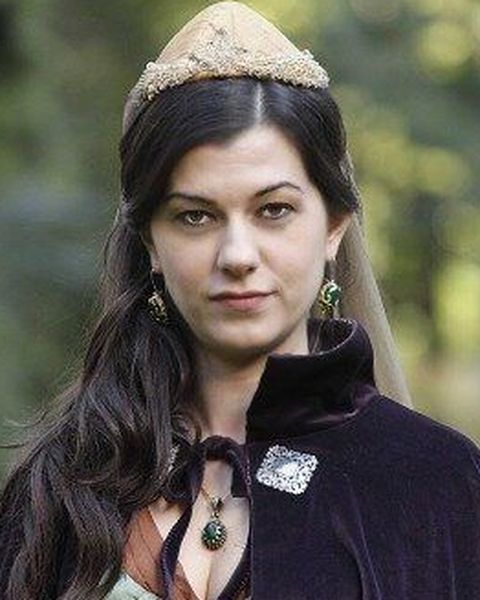
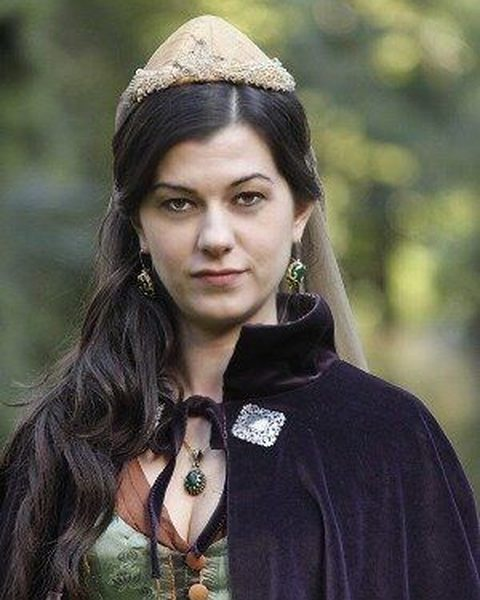
feat(art): widen six Kul card crops

diff --git a/art/directions/notes.md b/art/directions/notes.md
@@ -20,6 +20,12 @@ Four reworked Entrika cards have new stills, taken from the official channel's 1
 
 Under 150 px the art window is a portrait slice (88.8 × 128.8 cqw) that shows less than half the width of a 3:2 still, so `pos` x is set for that slice: Kefalet 30% keeps both figures, Casus 35% keeps Hürrem's face, Çeşnigir 65% keeps the taster. `index.html` here still links the old `card.divan-sirasi`, `card.gozde` and `card.saray-dedikodusu` copies in `img/`, and the UI proposal (`ui/index.html`) reads their `-1` copies from `graded/`, so those copies stay until both pages are rebuilt; the originals and the unlinked copies are gone. The comparison page's Saray Tabibi slot now shows the Çeşnigir stills. Concerns: Kefalet's two figures are full-length in a wide room, so they are small on the card; Casus is a dark frame; the Casus and Çeşnigir clips are compilations that don't name their episodes.
 
+## Round 16: wider Kul crops
+
+The roster standard (face box 36 % of the 4:5 crop, eye line at 49 % of the card window) makes Kul faces about 36 cqw tall on the card; Character faces are about 29 cqw. Sümbül, Nigar, Firuze, Ebussuud, Gülfem and Şeker were re-cut from their `-1` stills with the face box near 28 % of the crop and `pos` set so the eye line sits about 40 % down the window: y = (eye line − 0.246) / 0.384. Exceptions: Ebussuud is at 25 % with the eye line at 46 %, so his turban fits; Nigar (29 %), Gülfem (32 %) and Şeker (34 %) are limited by their small sources, and Şeker keeps the eye line at 52 % so his cap stays whole. Face boxes are from macOS Vision; the roster, `graded/roster` (bake.py at 0.15) and 480×600 `img/` copies were all regenerated. The manifest's `face_share` for these six still describes the old crops.
+
+İskender, Matrakçı, Gül Ağa, Daye, Gülşah, Lokman and Ayas can't be widened: their crops already use the full height of the still (close-up show frames, stored as 920 px wide cuts of the 1920 frame; Ayas is the designer's 480×640 image). Their alternates are tighter, show someone else, or are the picks the round 13 review replaced (Matrakçı and Gülşah `-3` would frame head-and-shoulders).
+
 ## Decisions (round 11): the Varak ve mine icon set
 
 The page now uses the style-A icon set from `art/icons/set/` (49 icons; a 512 px master plus -144, -72 and -48 copies). Only the -48, -72 and -144 files it needs are copied to `art/directions/img/icons/` (98 files, about 1.3 MB), and the hand-drawn SVG sprite is gone.
